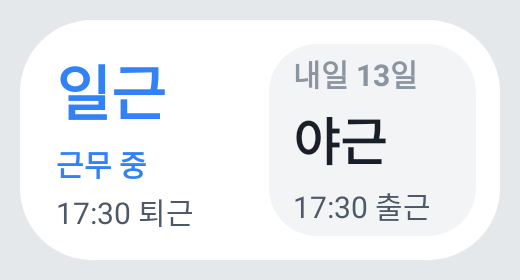
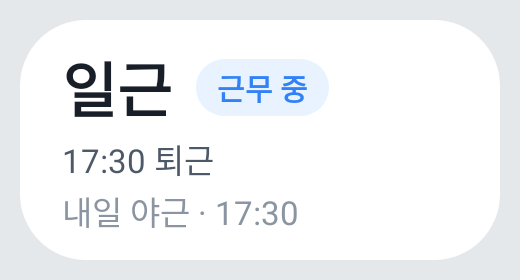
갤럭시 위젯 다시 그리기(0.3): 근무 이름·상태 칩·한 줄 위주로 정리
- 4x1: 오늘(날짜, 근무 이름 + 상태 칩, 시간과 남은 시간) | 내일 회색 카드. 5일 칸 제거
- 2x1: 근무 이름 + 상태 칩, 퇴근/출근 시각, 내일 한 줄. 내일 조근은 끝나는 시각
- 1x1: 근무 이름과 한 줄(근무 중이면 파란 퇴근 시각)
- 한글 줄 높이(약 1.5배)에 맞춰 1칸에 세 줄까지, 글꼴 120%면 덜 중요한 줄을 뺌
- 시험: 상태별 4x1 4개, 2x1 2개, 1x1 2개, 글꼴 120%, 말줄임(…)도 잡도록
- 위젯 고르는 화면 미리보기용 예시 글, 안 쓰는 색·문자열 정리, versionCode 3

Claude-Session: https://claude.ai/code/session_01Twwme8pGmW2CRkCqeQFUhx

diff --git a/android/app/src/test/java/app/shiftwork/on/widget/WidgetRenderTest.java b/android/app/src/test/java/app/shiftwork/on/widget/WidgetRenderTest.java
@@ -32,7 +32,7 @@ import app.shiftwork.on.core.ShiftCalc;
 
 /**
  * 위젯 3종을 실제 안드로이드 레이아웃으로 그려 글자와 그림(PNG)을 확인한다(실기기 대신).
- * 그림은 app/build/widget-shots/에 생긴다. 크기는 삼성 런처 칸을 어림한 값(4x1 ≈ 350×90dp)이다.
+ * 그림은 app/build/widget-shots/에 생긴다. 크기는 삼성 런처 칸을 작게 어림한 값(4x1 340×80dp, 2x1 160×80dp, 1x1 75×80dp)이다.
  */
 @RunWith(RobolectricTestRunner.class)
 @GraphicsMode(GraphicsMode.Mode.NATIVE)
@@ -87,51 +87,146 @@ public class WidgetRenderTest {
         TextView t = root.findViewById(id);
         float need = t.getPaint().measureText(t.getText().toString());
         assertTrue("잘림: " + t.getText() + " need=" + need + " have=" + t.getWidth(), need <= t.getWidth() + 1);
+        assertTrue("…로 줄어듦: " + t.getText(), t.getLayout() == null || t.getLayout().getEllipsisCount(0) == 0);
+    }
+
+    private static int color(int res) {
+        return RuntimeEnvironment.getApplication().getColor(res);
+    }
+
+    private static int vis(View root, int id) {
+        return root.findViewById(id).getVisibility();
+    }
+
+    private static final int[] W4 = {R.id.today_cap, R.id.live, R.id.today_name, R.id.today_time, R.id.next_cap, R.id.next_name, R.id.next_time};
+
+    private static void check4x1(View v) {
+        for (int id : W4) if (vis(v, id) == View.VISIBLE) { fits(v, id); inside(v, id); }
     }
 
     @Test
     @Config(qualifiers = "w411dp-h891dp-xxhdpi")
-    public void w4x1_light() throws Exception {
+    public void w4x1_working() throws Exception {
         View v = render(WidgetRender.Kind.W4x1, "2026-11-12T13:00", "Asia/Seoul", 340, 80, "4x1-light");
         assertEquals("오늘 · 12일 목", text(v, R.id.today_cap));
+        assertEquals("근무 중", text(v, R.id.live));
         assertEquals("일근", text(v, R.id.today_name));
-        assertEquals("08:30–17:30", text(v, R.id.today_time));
+        assertEquals("08:30–17:30 · 4시간 30분 남음", text(v, R.id.today_time));
+        assertEquals("내일 · 13일 금", text(v, R.id.next_cap));
         assertEquals("야근", text(v, R.id.next_name));
         assertEquals("17:30–08:30", text(v, R.id.next_time));
-        assertEquals("조", text(v, R.id.d0_s));
-        assertEquals("야", text(v, R.id.d1_s)); // 11/15 바꾼 근무
-        for (int id : new int[]{R.id.today_cap, R.id.today_name, R.id.today_time, R.id.next_cap, R.id.next_name, R.id.next_time}) fits(v, id);
-        inside(v, R.id.today_cap, R.id.today_name, R.id.today_time, R.id.next_cap, R.id.next_name, R.id.next_time, R.id.d0_w, R.id.d0_s, R.id.d0_n, R.id.d4_n);
+        check4x1(v);
     }
 
     @Test
     @Config(qualifiers = "w411dp-h891dp-night-xxhdpi")
-    public void w4x1_dark() throws Exception {
-        render(WidgetRender.Kind.W4x1, "2026-11-12T13:00", "Asia/Seoul", 340, 80, "4x1-dark");
+    public void w4x1_night_shift_dark() throws Exception {
+        // 13일 야근 23:00, 남은 시간이 가장 긴 글
+        View v = render(WidgetRender.Kind.W4x1, "2026-11-13T23:00", "Asia/Seoul", 340, 80, "4x1-dark");
+        assertEquals("야근", text(v, R.id.today_name));
+        assertEquals("17:30–08:30 · 9시간 30분 남음", text(v, R.id.today_time));
+        assertEquals("조근", text(v, R.id.next_name));
+        assertEquals("08:30 퇴근", text(v, R.id.next_time));
+        check4x1(v);
+    }
+
+    @Test
+    @Config(qualifiers = "w411dp-h891dp-xxhdpi")
+    public void w4x1_after_work() throws Exception {
+        // 14일 조근이 08:30에 끝난 뒤, 15일은 야근으로 바꾼 날
+        View v = render(WidgetRender.Kind.W4x1, "2026-11-14T10:00", "Asia/Seoul", 340, 80, "4x1-after");
+        assertEquals("퇴근 후", text(v, R.id.live));
+        assertEquals("조근", text(v, R.id.today_name));
+        assertEquals("야근", text(v, R.id.next_name));
+        check4x1(v);
+    }
+
+    @Test
+    @Config(qualifiers = "w411dp-h891dp-xxhdpi")
+    public void w4x1_day_off() throws Exception {
+        View v = render(WidgetRender.Kind.W4x1, "2026-11-19T12:00", "Asia/Seoul", 340, 80, "4x1-off");
+        assertEquals("쉬는 날", text(v, R.id.live));
+        assertEquals("휴무", text(v, R.id.today_name));
+        assertEquals(View.GONE, vis(v, R.id.today_time));
+        assertEquals("일근", text(v, R.id.next_name));
+        assertEquals("08:30–17:30", text(v, R.id.next_time));
+        check4x1(v);
     }
 
     @Test
     @Config(qualifiers = "w411dp-h891dp-xxhdpi")
     public void w2x1_working() throws Exception {
         View v = render(WidgetRender.Kind.W2x1, "2026-11-12T13:00", "Asia/Seoul", 160, 80, "2x1-light");
+        assertEquals("일근", text(v, R.id.today_name));
         assertEquals("근무 중", text(v, R.id.live));
         assertEquals("17:30 퇴근", text(v, R.id.live_time));
-        assertEquals("야근", text(v, R.id.next_name));
-        assertEquals("17:30 출근", text(v, R.id.next_time));
-        assertEquals(View.GONE, v.findViewById(R.id.today_cap).getVisibility());
-        for (int id : new int[]{R.id.today_name, R.id.live, R.id.live_time, R.id.next_cap, R.id.next_name, R.id.next_time}) fits(v, id);
-        inside(v, R.id.today_name, R.id.live, R.id.live_time, R.id.next_cap, R.id.next_name, R.id.next_time);
+        assertEquals("내일 야근 · 17:30", text(v, R.id.next_time));
+        for (int id : new int[]{R.id.today_name, R.id.live, R.id.live_time, R.id.next_time}) fits(v, id);
+        inside(v, R.id.today_name, R.id.live, R.id.live_time, R.id.next_time);
+    }
+
+    @Test
+    @Config(qualifiers = "w411dp-h891dp-night-xxhdpi")
+    public void w2x1_night_then_morning_end() throws Exception {
+        // 내일이 조근이면 시작(오늘 17:30)이 아니라 끝나는 시각
+        View v = render(WidgetRender.Kind.W2x1, "2026-11-13T12:00", "Asia/Seoul", 160, 80, "2x1-dark");
+        assertEquals("근무 전", text(v, R.id.live));
+        assertEquals("17:30 출근", text(v, R.id.live_time));
+        assertEquals("내일 조근 · 08:30 퇴근", text(v, R.id.next_time));
+        for (int id : new int[]{R.id.today_name, R.id.live, R.id.live_time, R.id.next_time}) fits(v, id);
+        inside(v, R.id.today_name, R.id.live, R.id.live_time, R.id.next_time);
+    }
+
+    @Test
+    @Config(qualifiers = "w411dp-h891dp-xxhdpi")
+    public void w1x1_working() throws Exception {
+        View v = render(WidgetRender.Kind.W1x1, "2026-11-12T13:00", "Asia/Seoul", 75, 80, "1x1-light");
+        assertEquals("일근", text(v, R.id.today_name));
+        assertEquals("17:30 퇴근", text(v, R.id.live_time));
+        assertEquals(color(R.color.w_blue), ((TextView) v.findViewById(R.id.live_time)).getCurrentTextColor());
+        for (int id : new int[]{R.id.today_name, R.id.live_time}) fits(v, id);
+        inside(v, R.id.today_name, R.id.live_time);
     }
 
     @Test
     @Config(qualifiers = "w411dp-h891dp-night-xxhdpi")
     public void w1x1_after_work_toronto() throws Exception {
         View v = render(WidgetRender.Kind.W1x1, "2026-11-12T20:00", "America/Toronto", 75, 80, "1x1-dark");
-        assertEquals("퇴근 후", text(v, R.id.live));
         assertEquals("내일 야근", text(v, R.id.live_time));
-        for (int id : new int[]{R.id.today_name, R.id.live, R.id.live_time}) fits(v, id);
-        inside(v, R.id.today_name, R.id.live, R.id.live_time);
+        assertEquals(color(R.color.w_body), ((TextView) v.findViewById(R.id.live_time)).getCurrentTextColor());
+        for (int id : new int[]{R.id.today_name, R.id.live_time}) fits(v, id);
+        inside(v, R.id.today_name, R.id.live_time);
     }
+
+    /** 글자 크기를 20% 키운 기기(설정 > 글꼴 크기)에서도 넘치지 않는지. 더 키우면 끝이 "…"로 줄어든다. */
+    @Test
+    @Config(qualifiers = "w411dp-h891dp-xxhdpi")
+    public void bigger_font() throws Exception {
+        org.robolectric.RuntimeEnvironment.setFontScale(FONT);
+        try {
+            View v = render(WidgetRender.Kind.W4x1, "2026-11-13T23:00", "Asia/Seoul", 340, 80, "4x1-font");
+            check4x1(v);
+            assertEquals(View.GONE, vis(v, R.id.today_cap));
+            assertEquals(View.GONE, vis(v, R.id.next_cap));
+            assertEquals("내일 조근", text(v, R.id.next_name));
+            v = render(WidgetRender.Kind.W2x1, "2026-11-13T12:00", "Asia/Seoul", 160, 80, "2x1-font");
+            assertEquals(View.GONE, vis(v, R.id.next_time));
+            for (int id : new int[]{R.id.today_name, R.id.live, R.id.live_time}) fits(v, id);
+            inside(v, R.id.today_name, R.id.live, R.id.live_time);
+            v = render(WidgetRender.Kind.W2x1, "2026-11-12T20:00", "Asia/Seoul", 160, 80, "2x1-font-after");
+            assertEquals(View.GONE, vis(v, R.id.live_time));
+            assertEquals("내일 야근 · 17:30", text(v, R.id.next_time));
+            for (int id : new int[]{R.id.today_name, R.id.live, R.id.next_time}) fits(v, id);
+            inside(v, R.id.today_name, R.id.live, R.id.next_time);
+            v = render(WidgetRender.Kind.W1x1, "2026-11-12T13:00", "Asia/Seoul", 75, 80, "1x1-font");
+            for (int id : new int[]{R.id.today_name, R.id.live_time}) fits(v, id);
+            inside(v, R.id.today_name, R.id.live_time);
+        } finally {
+            org.robolectric.RuntimeEnvironment.setFontScale(1f);
+        }
+    }
+
+    static final float FONT = 1.2f;
 
     @Test
     @Config(qualifiers = "w411dp-h891dp-xxhdpi")

diff --git a/android/app/src/main/java/app/shiftwork/on/widget/WidgetRender.java b/android/app/src/main/java/app/shiftwork/on/widget/WidgetRender.java
@@ -17,19 +17,16 @@ import app.shiftwork.on.Store;
 import app.shiftwork.on.core.ShiftCalc;
 
 /**
- * 위젯 그리기. 디자인은 design/pages/widget.html(토스 스타일)과 같다.
- * - 4x1: 오늘(큰 파란 글씨) · 내일 · 앞으로 5일
- * - 2x1: 오늘 + 근무 중/퇴근 시각 · 내일(회색 안쪽 카드)
- * - 1x1: 오늘 + 근무 중/퇴근 시각
+ * 위젯 그리기. 큰 근무 이름 하나, 상태 칩 하나, 파란색은 "근무 중"과 진행 막대에만.
+ * - 4x1: 오늘(이름 · 상태 칩 · 시간과 남은 시간 · 진행 막대) | 내일(회색 카드)
+ * - 2x1: 오늘 이름 · 상태 칩과 퇴근/출근 시각 · "내일 ○○ · 시각"
+ * - 1x1: 오늘 이름 · 상태 칩 · 퇴근/출근 시각 또는 "내일 ○○"
  * 날짜·근무는 한국 날짜 기준, 시각은 기기 시간대.
  */
 public final class WidgetRender {
     public enum Kind { W4x1, W2x1, W1x1 }
 
     private static final String[] WEEK = {"월", "화", "수", "목", "금", "토", "일"};
-    private static final int[] DAY_W = {R.id.d0_w, R.id.d1_w, R.id.d2_w, R.id.d3_w, R.id.d4_w};
-    private static final int[] DAY_S = {R.id.d0_s, R.id.d1_s, R.id.d2_s, R.id.d3_s, R.id.d4_s};
-    private static final int[] DAY_N = {R.id.d0_n, R.id.d1_n, R.id.d2_n, R.id.d3_n, R.id.d4_n};
 
     private WidgetRender() {}
 
@@ -55,61 +52,72 @@ public final class WidgetRender {
         String s = calc.shiftOn(today);
         String t = calc.shiftOn(tom);
         ShiftCalc.Status st = calc.status(now, zone);
+        Instant end = calc.endOfCurrent(now);
+        Instant[] todayPair = ShiftCalc.instants(today, s);
 
-        // 작은 크기는 세 줄(근무 · 상태 · 시각)만 들어가므로 "오늘" 머리줄은 4x1에만 둔다
-        v.setTextViewText(R.id.today_cap, "오늘 · " + today.getDayOfMonth() + "일 " + week(today));
-        v.setViewVisibility(R.id.today_cap, kind == Kind.W4x1 ? View.VISIBLE : View.GONE);
         v.setTextViewText(R.id.today_name, ShiftCalc.name(s));
 
-        if (kind == Kind.W4x1) {
-            v.setTextViewText(R.id.today_time, ShiftCalc.shortRange(today, s, zone));
-            next(v, tom, t, zone, false);
-            for (int i = 0; i < 5; i++) {
-                LocalDate d = today.plusDays(i + 2);
-                String ds = calc.shiftOn(d);
-                v.setTextViewText(DAY_W[i], week(d));
-                v.setTextViewText(DAY_S[i], ShiftCalc.name(ds).substring(0, 1));
-                v.setTextViewText(DAY_N[i], String.valueOf(d.getDayOfMonth()));
-                color(c, v, DAY_S[i], shiftColor(ds));
-            }
-        } else {
-            // 작은 크기는 지금 상태: 근무 중이면 "근무 중 / 17:30 퇴근", 아니면 "퇴근 후 / 내일 야근 · 17:30 출근" 같은 문구
-            Instant end = calc.endOfCurrent(now);
-            v.setTextViewText(R.id.live, st.working ? "근무 중" : st.title);
-            color(c, v, R.id.live, st.working ? R.color.w_blue : R.color.w_sub);
-            v.setTextViewText(R.id.live_time, st.working && end != null ? ShiftCalc.time(end, zone) + " 퇴근" : liveLine(st, s, t, today, zone, kind));
-            if (kind == Kind.W2x1) next(v, tom, t, zone, true);
+        boolean working = st.working;
+        // 글꼴 크기를 키운 폰에서는 칸 높이(1줄)를 넘지 않게 덜 중요한 줄 하나를 뺀다
+        boolean bigFont = c.getResources().getConfiguration().fontScale > 1.1f;
+        if (kind == Kind.W1x1) {
+            // 칩 자리가 없으니 근무 중이면 퇴근 시각을 파란색으로, 아니면 출근 시각이나 내일 근무를 회색으로
+            String when = when(st, end, todayPair, zone);
+            v.setTextViewText(R.id.live_time, when.isEmpty() ? "내일 " + ShiftCalc.name(t) : when);
+            color(c, v, R.id.live_time, working ? R.color.w_blue : R.color.w_body);
+            if (bigFont) v.setViewPadding(R.id.root, dp(c, 8), dp(c, 6), dp(c, 6), dp(c, 6));
+            return v;
         }
+
+        // 상태 칩: 근무 중이면 파랑, 아니면 회색. 휴무 날은 이름과 겹치지 않게 "쉬는 날"
+        v.setTextViewText(R.id.live, working ? "근무 중" : st.title.equals("휴무") ? "쉬는 날" : st.title);
+        v.setInt(R.id.live, "setBackgroundResource", working ? R.drawable.widget_chip_on : R.drawable.widget_chip_off);
+        color(c, v, R.id.live, working ? R.color.w_blue : R.color.w_body);
+
+        if (kind == Kind.W4x1) {
+            v.setTextViewText(R.id.today_cap, "오늘 · " + today.getDayOfMonth() + "일 " + week(today));
+            v.setViewVisibility(R.id.today_cap, bigFont ? View.GONE : View.VISIBLE);
+            // 휴무면 시간 줄을 숨긴다("휴무 / 쉬는 날"처럼 같은 말을 두 번 하지 않게)
+            String range = ShiftCalc.shortRange(today, s, zone);
+            v.setTextViewText(R.id.today_time, working ? range + " · " + st.remaining : range);
+            v.setViewVisibility(R.id.today_time, range.isEmpty() ? View.GONE : View.VISIBLE);
+            v.setTextViewText(R.id.next_cap, "내일 · " + tom.getDayOfMonth() + "일 " + week(tom));
+            // 글꼴이 크면 "내일 · 13일 금" 줄을 빼고 이름에 "내일"을 붙인다
+            v.setViewVisibility(R.id.next_cap, bigFont ? View.GONE : View.VISIBLE);
+            v.setTextViewText(R.id.next_name, (bigFont ? "내일 " : "") + ShiftCalc.name(t));
+            // 내일 조근은 오늘 밤 야근이 이어지는 것이라 끝나는 시각만
+            Instant[] np = ShiftCalc.instants(tom, t);
+            String next = t.equals("조") && np != null ? ShiftCalc.time(np[1], zone) + " 퇴근" : ShiftCalc.shortRange(tom, t, zone);
+            v.setTextViewText(R.id.next_time, next);
+            v.setViewVisibility(R.id.next_time, next.isEmpty() ? View.GONE : View.VISIBLE);
+            return v;
+        }
+
+        // 2x1
+        String when = when(st, end, todayPair, zone);
+        v.setTextViewText(R.id.live_time, when);
+        v.setViewVisibility(R.id.live_time, when.isEmpty() ? View.GONE : View.VISIBLE);
+        // 내일이 조근이면 오늘 밤 야근에 이어지는 근무라 시작이 아니라 끝나는 시각을 적는다
+        Instant[] p = ShiftCalc.instants(tom, t);
+        String at = p == null ? "" : t.equals("조") ? " · " + ShiftCalc.time(p[1], zone) + " 퇴근" : " · " + ShiftCalc.time(p[0], zone);
+        v.setTextViewText(R.id.next_time, "내일 " + ShiftCalc.name(t) + at);
+        v.setViewVisibility(R.id.next_time, bigFont && !when.isEmpty() ? View.GONE : View.VISIBLE);
         return v;
     }
 
-    private static String liveLine(ShiftCalc.Status st, String s, String t, LocalDate today, ZoneId zone, Kind kind) {
-        // 2x1은 오른쪽 카드에 내일이 있으니 오늘 시각을 보여 준다
-        if (kind == Kind.W2x1) return s.equals("휴") ? "" : ShiftCalc.shortRange(today, s, zone);
-        // 1x1은 짧게: 근무 전이면 "08:30 출근", 퇴근 후·휴무면 "내일 야근"
-        if (st.title.equals("근무 전")) return st.sub.replace("오늘 ", "");
-        return "내일 " + ShiftCalc.name(t);
+    /** 근무 중이면 "17:30 퇴근", 근무 전이면 "08:30 출근", 그 밖에는 "" */
+    private static String when(ShiftCalc.Status st, Instant end, Instant[] todayPair, ZoneId zone) {
+        if (st.working && end != null) return ShiftCalc.time(end, zone) + " 퇴근";
+        if (st.title.equals("근무 전") && todayPair != null) return ShiftCalc.time(todayPair[0], zone) + " 출근";
+        return "";
     }
 
-    /** 내일 칸. 4x1은 근무 구간(17:30–08:30), 좁은 2x1은 출근 시각만(17:30 출근). */
-    private static void next(RemoteViews v, LocalDate tom, String t, ZoneId zone, boolean compact) {
-        v.setTextViewText(R.id.next_cap, compact ? "내일 " + tom.getDayOfMonth() + "일" : "내일 · " + tom.getDayOfMonth() + "일");
-        v.setTextViewText(R.id.next_name, ShiftCalc.name(t));
-        Instant[] p = ShiftCalc.instants(tom, t);
-        v.setTextViewText(R.id.next_time, compact ? (p == null ? "" : ShiftCalc.time(p[0], zone) + " 출근") : ShiftCalc.shortRange(tom, t, zone));
+    private static int dp(Context c, int dp) {
+        return Math.round(dp * c.getResources().getDisplayMetrics().density);
     }
 
     private static String week(LocalDate d) {
         return WEEK[d.getDayOfWeek().getValue() - 1];
-    }
-
-    private static int shiftColor(String s) {
-        switch (s) {
-            case "일": return R.color.s_day;
-            case "야": return R.color.s_night;
-            case "조": return R.color.s_dawn;
-            default: return R.color.s_off;
-        }
     }
 
     /** 안드로이드 12 이상은 색 리소스를 넘겨 런처의 다크 모드를 그대로 따르고, 그 아래는 지금 색으로 칠한다. */

diff --git a/android/README.md b/android/README.md
@@ -5,9 +5,13 @@
 ## 구성
 - `MainActivity`: WebView. `WEB_APP_URL`이 있으면 그 주소(예: Vercel)를, 없으면 앱 안에 넣은 웹 파일(빌드할 때 레포 루트에서 복사)을 엽니다.
 - `ShiftBridge`: 웹 앱(`sync.js`)이 `window.ShiftBridge`로 근무표와 위젯 토큰을 넘깁니다. 서버 없이도 근무표가 넘어오므로 위젯은 서버 없이 동작합니다.
-- `RefreshWorker`: 15분마다 위젯을 다시 그립니다. 서버 정보가 있으면 먼저 Supabase `widget_schedule(token)`으로 근무표를 받아 가족이 바꾼 근무도 반영합니다.
+- `RefreshWorker`: 15분마다 위젯을 다시 그립니다. 서버 정보가 있으면 먼저 Supabase `widget_schedule(token)`으로 근무표를 받아 다른 기기에서 바꾼 근무도 반영합니다.
 - `core/ShiftCalc`: 근무 계산. 웹 앱과 같은 규칙이며 `ShiftCalcTest`로 웹 앱 결과 18개 시각과 대조합니다.
-- `widget/`: 위젯 3종. 디자인은 `design/pages/widget.html`(토스 스타일, 라이트·다크).
+- `widget/`: 위젯 3종(토스 스타일, 라이트·다크). 0.3(2026-11-12)에서 줄 수를 줄여 다시 그림:
+  - 4x1: 왼쪽 "오늘 · 날짜", 근무 이름 + 상태 칩(근무 중은 파랑, 근무 전·퇴근 후·쉬는 날은 회색), 시간과 남은 시간. 오른쪽 회색 카드에 내일(내일이 조근이면 오늘 밤 야근이 이어지는 것이라 "08:30 퇴근"만).
+  - 2x1: 근무 이름 + 상태 칩, 퇴근·출근 시각, "내일 ○○ · 시각".
+  - 1x1: 근무 이름, 그 아래 한 줄(근무 중이면 파란 퇴근 시각, 아니면 출근 시각이나 "내일 ○○").
+  - 한글 글꼴은 줄 높이가 글자 크기의 약 1.5배라 1칸 높이(어림 80dp)에 글 세 줄까지만 넣는다. 폰 글꼴 크기를 키우면(10% 넘게) 덜 중요한 줄 하나를 뺀다(4x1 "오늘 · 날짜"와 "내일 · 날짜", 2x1 내일 줄).
 
 ## 빌드 (개발자 컴퓨터, 무료)
 1. Android Studio를 설치하고 `android/` 폴더를 연다. (처음 열 때 Gradle·안드로이드 SDK를 내려받는다.)
@@ -28,8 +32,8 @@
 - 같은 키로 빌드해야 이미 설치된 앱 위에 덮어 설치된다. 키를 잃어버리면 앱을 지우고 다시 깔아야 하고, 폰에만 저장된 근무표는 사라진다(로그인해서 서버에 저장된 근무표는 남는다).
 - 업데이트할 때는 `app/build.gradle`의 `versionCode`를 1씩 올린다.
 
-## 가족 폰에 설치
-정식 APK(`app-release.apk`)를 카카오톡·메일 등으로 보내고, 가족 폰에서 열어 설치한다. 처음에는 "출처를 알 수 없는 앱 설치"를 허용해야 한다. 홈 화면을 길게 눌러 위젯 → 교대온을 고르면 위젯이 놓인다. 위젯은 앱을 한 번 연 뒤부터 근무를 보여 준다.
+## 다른 폰에 설치
+정식 APK(`app-release.apk`)를 카카오톡·메일 등으로 보내고, 받는 폰에서 열어 설치한다. 처음에는 "출처를 알 수 없는 앱 설치"를 허용해야 한다. 홈 화면을 길게 눌러 위젯 → 교대온을 고르면 위젯이 놓인다. 위젯은 앱을 한 번 연 뒤부터 근무를 보여 준다.
 
 ## 시험
 ```bash
@@ -37,10 +41,10 @@ cd android
 ./gradlew testDebugUnitTest lintDebug assembleDebug
 ```
 - `ShiftCalcParityTest`: 웹 앱과 같은 결과인지(18개 시각 + 진행률·순환·표기, 30개 확인).
-- `WidgetRenderTest`(Robolectric): 위젯 3종을 실제 안드로이드 레이아웃으로 그려 글자 값, 가로 잘림, 세로 찌그러짐·넘침을 확인하고 그림을 `app/build/widget-shots/`에 남긴다. 칸 크기는 어림값(4x1 340×80dp, 2x1 160×80dp, 1x1 75×80dp). 그림 사본: `design/images/android/`.
+- `WidgetRenderTest`(Robolectric): 위젯 3종을 실제 안드로이드 레이아웃으로 그려 글자 값, 가로 잘림, 세로 찌그러짐·넘침을 확인하고 그림을 `app/build/widget-shots/`에 남긴다. 칸 크기는 작게 잡은 어림값(4x1 340×80dp, 2x1 160×80dp, 1x1 75×80dp)이고, 글꼴 크기 120%도 시험한다. 그림 사본: `design/images/android/`.
 
 ## 확인한 것과 못 한 것 (2026-11-12)
-- 확인: 이 컨테이너에서 Android SDK 34·AGP 8.5.2·Gradle 8.7로 `assembleDebug` 성공, 단위 시험 6개 통과, lint 오류 0(경고만: 작은 글자, 자바스크립트 사용 등).
-- 그림 시험으로 찾아 고친 것: 4x1 높이 부족(시간·날짜 숫자 잘림), 2x1 오른쪽 카드 말줄임, 2x1·1x1 넷째 줄 찌그러짐.
+- 확인(0.3): 이 컨테이너에서 Android SDK 34·AGP 8.5.2·Gradle 8.7로 정식 서명 `assembleRelease` 성공, 단위 시험 11개 통과(근무 계산 1 + 위젯 그림 10), lint 오류 0(경고 16: 작은 글자 10sp, API 31 이상 속성, 자바스크립트 사용, 새 라이브러리 버전 등).
+- 그림 시험으로 찾아 고친 것: 4x1 높이 부족(시간·날짜 숫자 잘림), 2x1 오른쪽 카드 말줄임, 2x1·1x1 넷째 줄 찌그러짐. 0.3: 새 디자인의 세로 넘침(한글 줄 높이), 글꼴 120%에서 1x1 "…" 줄임과 4x1 가로 잘림.
 - 못 한 것: 실기기·에뮬레이터(이 컨테이너는 가상화 KVM이 없음). 삼성 런처의 실제 칸 크기와 글꼴(One UI)은 다를 수 있다.
 - debug APK는 개발용 서명이다. 오래 쓰려면 release 서명 키를 만들어 `assembleRelease`로 빌드한다(키를 잃어버리면 업데이트 설치가 안 된다).

diff --git a/design/HANDOFF.md b/design/HANDOFF.md
@@ -65,7 +65,8 @@
 - Supabase(2026-11-12 진행): 프로젝트 shiftwork-on(rsmuvlythhcgrfnunnrn, 서울) 생성, 마이그레이션 2개 적용, 실제 DB 권한 시험 통과, config.js에 Publishable key. 가족은 익명 로그인 + 초대 코드(기본 메일은 팀원 주소로만 가서). 주인 로그인은 이메일+비밀번호(무료 요금제는 SMTP 없이 메일 양식 수정 불가라 메일 코드 방식 포기). 남은 것: 사용자가 대시보드에서 익명 로그인 켜기, 실제 가입·로그인 시험(가입 확인 메일 한 번 클릭).
 - 안드로이드 정식 서명 키: Supabase Vault `shiftwork_android_signing_key_zip_b64`에 보관(꺼내는 법은 android/README.md). 0.2부터 이 키로 서명. 업데이트 때 versionCode를 올리고 같은 키로 assembleRelease.
 - Vercel: 커넥터 연결 또는 vercel.com/new에서 레포 Import(브랜치 claude/design-handoff, Framework Other). 배포 주소를 Supabase URL Configuration에 넣기.
-- 실기기: 사용자가 APK(./gradlew assembleDebug) 설치 후 위젯 확인. 위젯 칸 크기는 어림값이라 실제 화면을 보고 조정.
+- 갤럭시 앱 0.3(versionCode 3): 사용자가 "위젯 별로, 더 깔끔하게"라고 해서 위젯을 다시 그림. 5일 칸을 빼고 근무 이름 + 상태 칩 + 한 줄 위주(자세한 것은 android/README.md). 한글 줄 높이 때문에 1칸에 글 세 줄까지만, 글꼴 120%도 시험. 같은 키로 서명해 0.2 위에 덮어 설치.
+- 실기기: 위젯 칸 크기는 어림값(80dp 높이)이라 실제 화면을 보고 조정.
 
 ## 다음 후보
 1. ~~위젯·제어 센터 목업을 PNG로 내보내기~~ (완료, images/export/)
